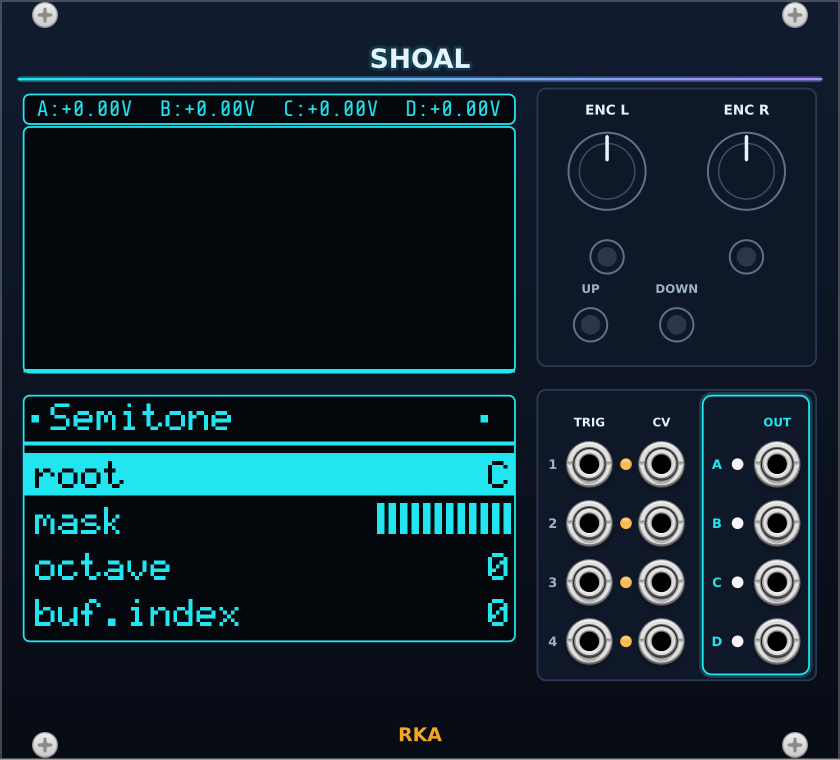
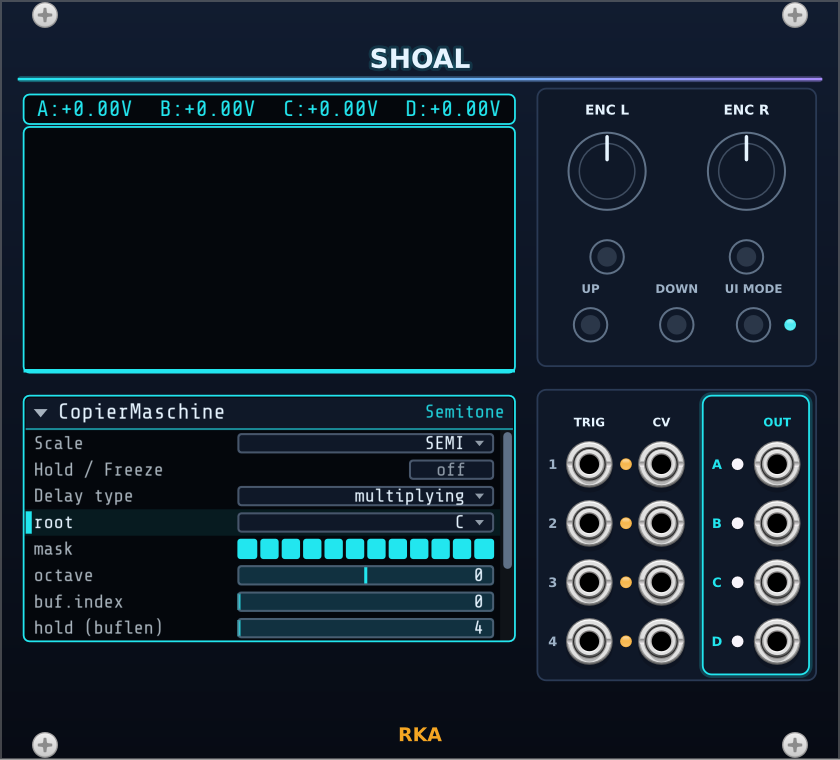
Shoal: friendly mode docs
The manual is rewritten around friendly mode: the header and app picker,
tabs, each row type and its gestures, the cursor row, scrolling, the busy
banner, UI MODE, the editors that stay in hardware mode and how to reach
each, and the firmware behaviour a user can meet ("Good to know"). The
panel image shows friendly mode. The design doc marks stage 3 done and
lists what it leaves open; the README lists the list's files.

Changed region(s): [[0.031, 0.5145, 0.619, 0.8474], [0.8667, 0.3632, 0.9595, 0.4539]]

diff --git a/docs/shoal/README.md b/docs/shoal/README.md
@@ -7,6 +7,12 @@ Sequins, Dialectic Ping Pong, Viznutcracker sweet, Acid Curds and
 References), on a stand-in for the module's hardware, so the apps behave
 as on the hardware and the o_C manual applies as written.
 
+On top of the hardware's menus Shoal adds **friendly mode**: the lower
+screen lists the current app's settings, and you edit them with the
+mouse. It is the default. The **UI MODE** button switches to **hardware
+mode**, where the lower screen is the firmware's own menu and you work it
+with the encoders and buttons as on the real module.
+
 Ornament & Crime is by Patrick Dowling, Max Stadler and Tim Churches
 (github.com/mxmxmx/O_C), under the GPL. Shoal is not affiliated with
 them. The changes Shoal makes to the firmware are listed in
@@ -14,24 +20,127 @@ them. The changes Shoal makes to the firmware are listed in
 
 ![Shoal panel](Shoal.png)
 
-This is a short page for the first, hardware-only version; a full manual
-comes later.
-
-## Using the apps
-
-For what each app does and how to drive it, read the o_C user manual for
-v1.3: <http://ornament-and-cri.me/user-manual-v1_3/>. Everything it says
-about the encoders, buttons and screens holds here, including the app
-menu (long-press the right encoder's button), the settings menus and the
-sub-editors.
+This page covers the module itself. For what each app does, read the
+o_C user manual for v1.3: <http://ornament-and-cri.me/user-manual-v1_3/>.
+A fuller manual comes later.
 
 ## Screens
 
 - The **upper screen** is the o_C screen the hardware shows when idle:
-  the current app's scope or status view.
-- The **lower screen** is the o_C menu screen, where the app's settings
-  are edited.
+  the current app's scope or status view. It is the same in both modes.
+- The **lower screen** is the settings list (friendly mode) or the o_C
+  menu screen (hardware mode).
 - The strip above them shows the four output voltages.
+
+## Friendly mode
+
+### The header
+
+The top line shows the current app's name. **Click it** to open a menu of
+the thirteen apps, with the current one ticked; choosing one switches to
+it, as the firmware's app menu would. On the right the header shows the
+app's own status from the firmware's title bar (for example the scale in
+CopierMaschine, the root and the chord's notes in Harrington 1200), or "CLICK APP TO
+SWITCH" when the app has none.
+
+### Tabs
+
+Apps with more than one channel show a tab per channel under the header:
+A to D for Quantermain, Dialectic Ping Pong, Viznutcracker sweet,
+References and Piqued, A and B for Meta-Q and Sequins. Click a tab to
+show that channel's settings; each channel keeps its own. Selecting a tab
+selects that channel in the firmware too, as the left encoder does on the
+hardware.
+
+### Rows
+
+Each row is a label on the left and a control on the right. The rows are
+the app's menu, in the firmware's order and with the firmware's names,
+plus rows for the things the hardware does with the left encoder, the
+buttons and long presses (CopierMaschine's Hold / Freeze, Harrington
+1200's Reset, Automatonnetz's Clock, and so on). Rows appear and
+disappear as on the hardware: when a setting hides or shows others, the
+list follows.
+
+- **Slider** (a number): drag left or right on the bar. The drag moves the
+  value from where it is, so a click on its own changes nothing; the bar's
+  width is the whole range. Hold **Ctrl** (Cmd on a Mac) for a quarter of
+  the speed, **Ctrl+Shift** (Cmd+Shift) for a sixteenth, to reach single
+  steps on a wide range. **Double-click** sets the default. The value is
+  printed on the bar; a range that runs below zero fills from zero.
+- **Dropdown** (a named value): click to open a menu of the values, with
+  the current one ticked, and pick one. A value the firmware has no name
+  for shows its number.
+- **On/off switch**: click to flip it.
+- **Note mask** (the notes of the current scale): one cell per note, lit
+  when the note is active. Click a cell to toggle it, or press and drag
+  across cells to set every cell you cross the way the first one went.
+  The number of cells follows the scale (none, shown as "-", when the
+  scale is Off). Where the firmware keeps the last active note of a scale
+  mask, the last cell will not go dark.
+- **Button** (a row that is all one button): click it to do what it says
+  ("Reset", "Clock", "Copy scale to other channels", "Reset mask", and so
+  on). These are the hardware's button presses and long presses.
+- **Heading**: Sequins and Acid Curds have two menu pages on the
+  hardware, parameters and CV mapping; the list shows both, each under a
+  heading.
+- **"edit in hardware mode"**: a row whose editor is only in hardware
+  mode (see below). Clicking it switches UI MODE to hardware.
+
+**Click a row's label** to move the firmware's menu cursor to that row
+without changing anything. The row under the cursor is tinted and has a
+bar on its left edge: cyan, or amber while the firmware is editing that
+value (an R push on the hardware). Any edit made in the list also leaves
+the cursor on the edited row, so after switching to hardware mode the
+right encoder is on the setting you last touched. The encoders and
+buttons keep working in friendly mode; the list shows what they change
+within a frame, and scrolls to keep the cursor's row in view.
+
+### Scrolling
+
+When the rows do not fit, a scrollbar appears on the right: drag its
+thumb, or click its track to move the thumb there. The scroll wheel scrolls the list
+while the pointer is over it, two rows per notch. Over a list that fits,
+the wheel scrolls the rack as usual.
+
+### While a hardware editor is open
+
+The app menu (a long press of the right encoder's button) and the apps'
+own editors (below) take over the hardware's controls, and the firmware
+accepts no settings edits until they close. While one is open, an amber
+banner under the header reads "HARDWARE EDITOR OPEN" and the list is
+dimmed and takes no edits. Click the banner to switch to hardware mode
+and finish there. The app picker in the header still works.
+
+## UI MODE
+
+The **UI MODE** button beside UP and DOWN switches the lower screen
+between friendly mode (its light on) and hardware mode (light off). The
+switch is saved with the patch and can be undone with Edit > Undo, like
+any switch. A patch saved before friendly mode existed opens in friendly
+mode, with its app and settings as saved. Both modes are views of the
+same firmware: switching changes nothing in the app.
+
+### What stays in hardware mode
+
+These editors have no mouse version yet. Each is reached from the list as
+shown, then worked as the o_C manual describes:
+
+| Editor | App | How to reach it |
+| --- | --- | --- |
+| User scale notes (and the scale editor's rotate, invert and other pages) | CopierMaschine, Quantermain, Meta-Q, Sequins, Acid Curds | Click the label of the note mask row, switch to hardware mode, press R on that row (notes can be edited with a user scale selected). |
+| Sequence steps (pitches, lengths, copy and paste) | Sequins | Click the label of the second "--> edit" row (the step mask), switch to hardware mode, press R. |
+| Chords and progressions | Acid Curds | The "chords -->" row: click its label, then the row's control, and press R. |
+| Envelope segments (S1 to S4) | Piqued | The "Envelope segments" row: click its label (the hardware goes to the envelope page), then the row's control; select a segment with the right encoder and press R to edit it. |
+| Cells | Automatonnetz | The "Cells" row switches mode; press L (the left encoder's button) for the cell view. |
+| Autotune | References | The "--> autotune" row: click its label, then the row's control, and press R. |
+
+## Hardware mode
+
+The lower screen is the firmware's menu, and everything the o_C manual
+says about the encoders, buttons and screens holds, including the app
+menu (long-press the right encoder's button), the settings menus and the
+sub-editors.
 
 ## Controls
 
@@ -47,6 +156,7 @@ sub-editors.
   **Shift-click** latches a button down, for the gestures that hold a
   button while turning an encoder (for example, the user-scale editor's
   hold-L-and-turn); click it again to release it.
+- **UI MODE**: friendly or hardware mode, above.
 
 ## Inputs and outputs
 
@@ -71,14 +181,50 @@ sub-editors.
   reopening a patch brings back the app and its settings. A duplicated
   module starts with the same settings and then runs on its own, with its
   own random values.
+- UI MODE is saved with the patch like any switch.
 - A button latched with shift-click is released when the patch is loaded.
 - **Initialize** (right-click) returns the firmware to a new module's
-  defaults: CopierMaschine, outputs at 0 V.
+  defaults: CopierMaschine, outputs at 0 V, friendly mode.
 - **Randomize** does nothing.
+
+## Good to know
+
+- **Sub-editors are hardware mode.** User scale notes, Sequins steps,
+  Acid Curds chords, Piqued segments and Automatonnetz cells are edited
+  in hardware mode, reached from the row that says so (see "What stays in
+  hardware mode"). While one is open the list shows the amber banner and
+  takes no edits.
+- **Harrington 1200, Euclidean rows.** After loading a patch saved with
+  Trigger type set to Eucl, the Euclidean rows stay hidden until Trigger
+  type is changed. The hardware does the same.
+- **Quantermain, "Copy scale to other channels".** Afterwards, a channel
+  that had no scale shows its Root and mask rows only once one of its
+  settings is edited (Scale, CV Source or Trigger source, for example).
+  The firmware's own menu behaves the same.
+- **Meta-Q's mask row** is labelled "--> edit" by the firmware. It belongs
+  to the scale slot chosen by "scale #", not to the slot the header shows
+  playing (the scale sequencer or the aux CV can move that one).
+- **References, "Mod range oct".** Negative values are lost when the
+  patch is saved: a bug in the firmware itself, kept as the hardware has
+  it.
+- **Edits during a fast encoder spin.** List edits made while a long,
+  fast encoder spin is still being played out apply once the turns have
+  reached the app, up to about half a second later, so they land in the
+  order you made them.
+- **Sliders** are relative: drag from where the value is, with Ctrl/Cmd
+  for fine and Ctrl/Cmd+Shift for extra fine steps; double-click resets
+  to the default.
+- **The scroll wheel** scrolls the list when the pointer is over a list
+  longer than the screen, and turns an encoder only when Rack's
+  scroll-wheel knob control is on.
+- **Undo** covers the UI MODE switch, not edits made in the list or with
+  the encoders.
 
 ## Not there yet
 
-- A friendly mode that lists the current app's settings in plain words.
+- Mouse versions of the sub-editors (user scale notes, Sequins steps,
+  Acid Curds chords, Piqued segments, Automatonnetz cells).
 - Right-click options: the ±5 V input range, encoder acceleration on/off
-  and a direct app choice. The input range is already saved with the
-  patch, so patches keep it when the option arrives.
+  and the app choice. The input range is already saved with the patch, so
+  patches keep it when the option arrives.
+- References' meters, and a full manual.

diff --git a/docs/specs/2026-11-14-shoal-design.md b/docs/specs/2026-11-14-shoal-design.md
@@ -1,6 +1,7 @@
 # Shoal: design
 
-Date: 2026-11-14. Status: approved 2026-11-14.
+Date: 2026-11-14. Status: approved 2026-11-14. Stages 1 to 3 are done
+(stage 3, friendly mode, on 2026-11-15); stage 4 is next.
 
 Shoal is an emulation of the Ornament & Crime (o_C) eurorack module for
 VCV Rack: four trigger inputs, four CV inputs, four CV outputs, a small
@@ -505,7 +506,8 @@ Each stage is usable on its own and gets its own implementation plan.
 2. **Shoal in hardware mode.** Panel, jacks, both screens, encoders and
    buttons, saving. At this point the module is usable for patching with
    the manual open.
-3. **Friendly mode.** Adapters, settings list, app picker, channel tabs,
+3. **Friendly mode** (done 2026-11-15,
+   `docs/plans/2026-11-15-shoal-friendly-mode.md`). Adapters, settings list, app picker, channel tabs,
    note masks, the equivalence tests.
 4. **Finish.** Right-click menu, the References meters, manual in
    `docs/shoal/`, README and changelog entries, CPU check.
@@ -595,8 +597,36 @@ Do in stage 2:
 
 Do in stage 3:
 
-- `setSettingRaw` returns true when the value is unchanged.
-- Check the settings enum coverage against the firmware menus.
+- `setSettingRaw` returns true when the value is unchanged. Still open:
+  friendly mode does not use `setSettingRaw` (its edits replay the app's
+  handlers), so nothing in stage 3 needed it; decide in stage 4.
+- **Done (stage 3)** Check the settings enum coverage against the
+  firmware menus: every app's equivalence test in `test_friendly.cpp`
+  checks that the list's setting rows are the firmware's menu, in its
+  order (`rowsAreMenu`).
+
+Left open by stage 3 (friendly mode):
+
+- Mouse versions of the sub-editors: user scale notes, Sequins steps,
+  Acid Curds chords, Piqued segments, Automatonnetz cells (and the
+  References autotuner). They are reached from the list and edited in
+  hardware mode.
+- Stage 4 as planned: the right-click menu, the References meters and
+  the full manual (`docs/shoal/README.md` covers friendly mode, not each
+  app).
+- A panel button held at the moment a friendly edit has to recover the
+  app's menu (the RESUME sequence) loses its press: `scale_editor.Close`
+  sets the button ignore mask. Inherent to RESUME; rare.
+- No mouse gesture on the list (drags, double click, menus, wheel,
+  scrollbar, mask painting, UI MODE and its undo) had been tried in a
+  live Rack when stage 3 closed: the offline tests cover the geometry and
+  bookkeeping, the screenshots the drawing. The user's checks at the end
+  of `docs/plans/2026-11-15-shoal-friendly-mode.md` are the first.
+- Firmware behaviour friendly mode shows as the hardware has it, noted in
+  the manual's "Good to know": References "Mod range oct" loses negative
+  values on save; Harrington 1200's Euclidean rows stay hidden after a
+  patch saved with Trigger type Eucl loads; Quantermain's "Copy scale to
+  other channels" leaves a channel's list stale until an edit rebuilds it.
 
 Before any public release:
 

diff --git a/README.md b/README.md
@@ -6,7 +6,7 @@ VCV Rack 2 modules.
 |---|---|---|
 | [**Sway**](docs/sway/README.md) | 18 | Polyphonic LFO: classic and morphing waves, random, EOC, clock sync, phase spread, one-shot |
 | [**Fathom**](docs/fathom/README.md) | 10 | Deep bass drone voice: sub sine, 7-saw supersaw, drift, ladder filter |
-| [**Shoal**](docs/shoal/README.md) | 28 | The Ornament & Crime v1.3.6 firmware, all 13 apps, on emulated hardware |
+| [**Shoal**](docs/shoal/README.md) | 28 | The Ornament & Crime v1.3.6 firmware, all 13 apps, on emulated hardware, with a mouse-driven settings list |
 
 Each module's manual is in its own folder.
 
@@ -38,6 +38,8 @@ src/fathom/              the Fathom drone voice, same shape: Fathom.cpp,
                          FathomLayout.hpp
 src/shoal/               Shoal: the Ornament & Crime v1.3.6 firmware
   Shoal.cpp              module and widget, mapped onto shoal::Host
+  FriendlyList.hpp       the friendly-mode list widget on the lower screen
+  ListLayout.hpp         the list's geometry, hit testing and gesture bookkeeping (Rack-free)
   Host.hpp               shoal::Host: one Core driven from the audio engine
   Core.hpp               shoal::Core, the firmware's only public header
   PatchState.hpp         the patch data's decode rules (version, length, range)
@@ -46,7 +48,7 @@ src/shoal/               Shoal: the Ornament & Crime v1.3.6 firmware
   Friendly.hpp           friendly mode's row model and edits (FriendlyModel, FriendlyEdit)
   SettingsAccess.inc     raw settings table for every app
   Friendly.inc           friendly mode's framework: helpers, the table of adapters, the edit checks
-  FriendlyAdapters<n>.inc  the per-app adapters, a file per group of apps (1: Quadraturia, Low-rents; 2: Harrington 1200, Automatonnetz, Dialectic Ping Pong, Viznutcracker sweet, References; 3: CopierMaschine, Quantermain, Meta-Q)
+  FriendlyAdapters<n>.inc  the per-app adapters, a file per group of apps (1: Quadraturia, Low-rents; 2: Harrington 1200, Automatonnetz, Dialectic Ping Pong, Viznutcracker sweet, References; 3: CopierMaschine, Quantermain, Meta-Q; 4: Piqued, Sequins, Acid Curds)
   CoreImpl.inc           shoal::Core's implementation
   CoreTest.hpp           test-only hooks into the core
   test_util.hpp          helpers shared by the Shoal tests
@@ -102,6 +104,7 @@ blur, so glows are a faint wide stroke under a thin bright one. Use the
 widgets in `src/widgets.hpp` (`rka::BigKnob`, `rka::MidKnob`,
 `rka::SmallKnob`, `rka::Trim`, `rka::CyanMagentaLight`, and for Shoal
 `rka::HoldButton`, a momentary button that shift-click latches,
+`rka::LatchButton`, a click-to-toggle switch in the same shape,
 `rka::Encoder`, an endless encoder turned by drag or scroll wheel, and
 `rka::PixelScreen`, a 128x64 1-bit frame drawn in one accent) rather than
 stock ones so modules match. `rka::Trim` is the plugin's own 4.6 mm
